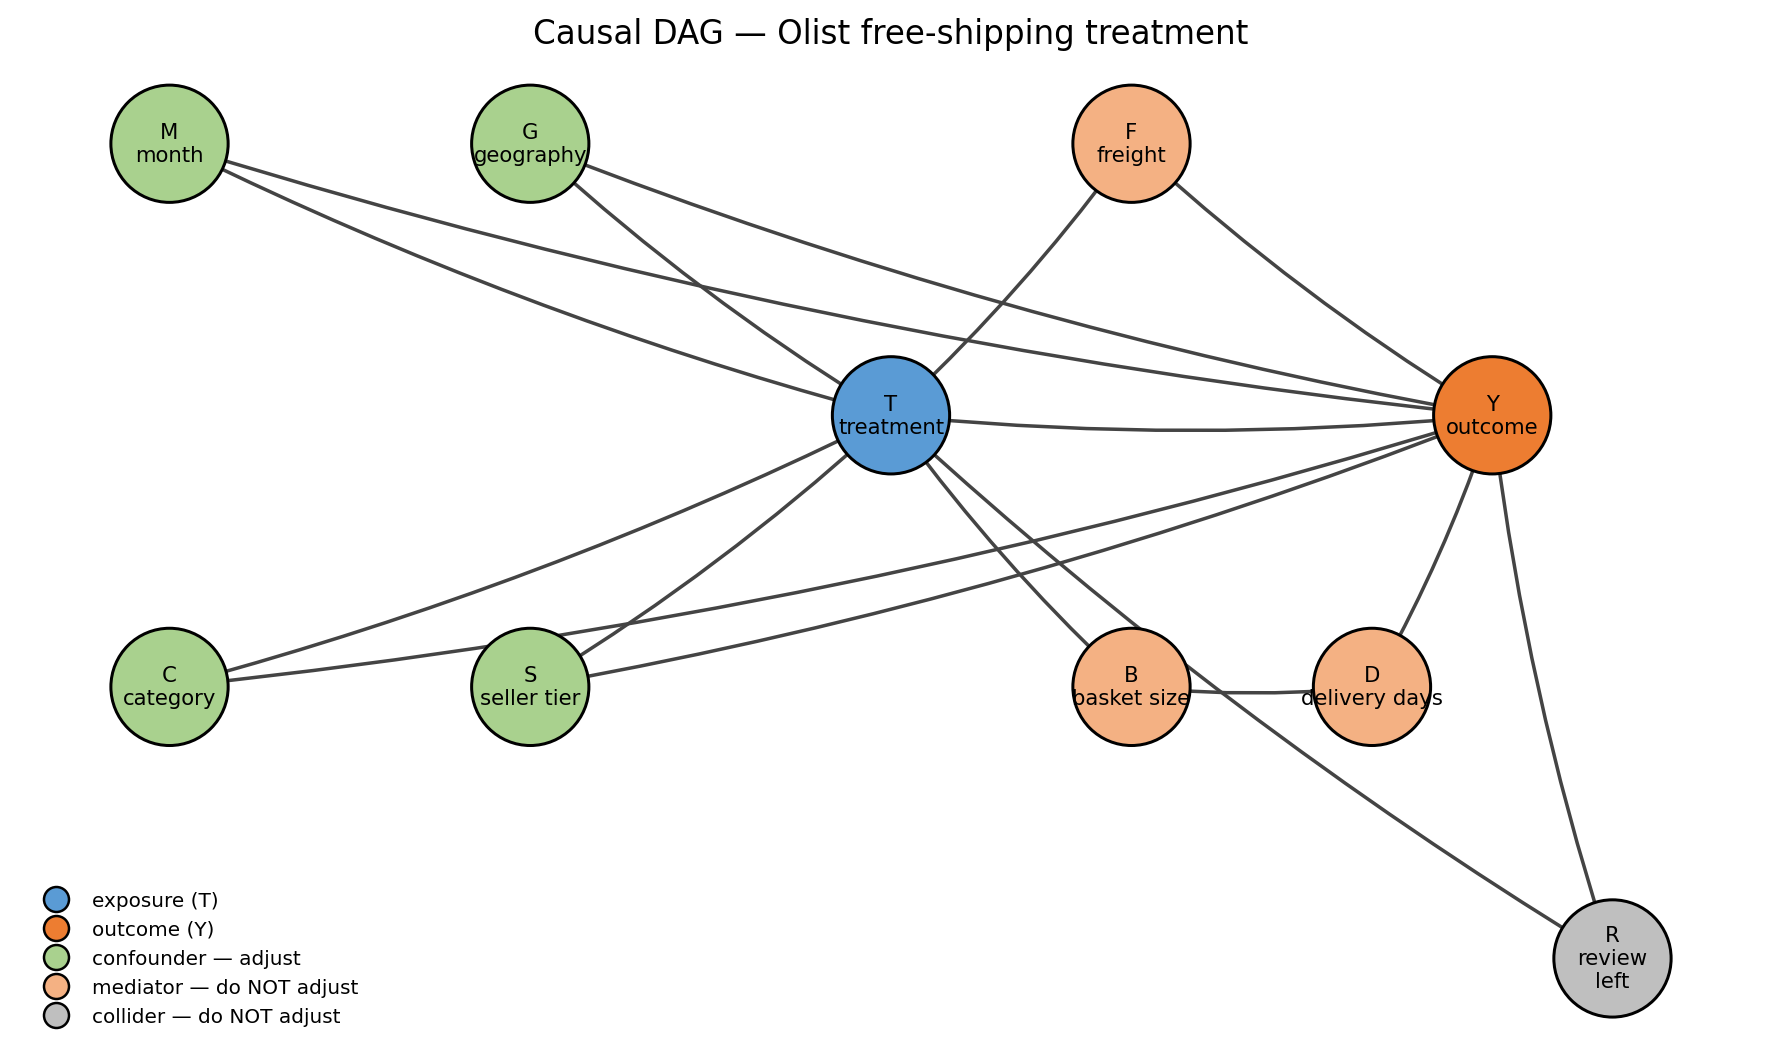
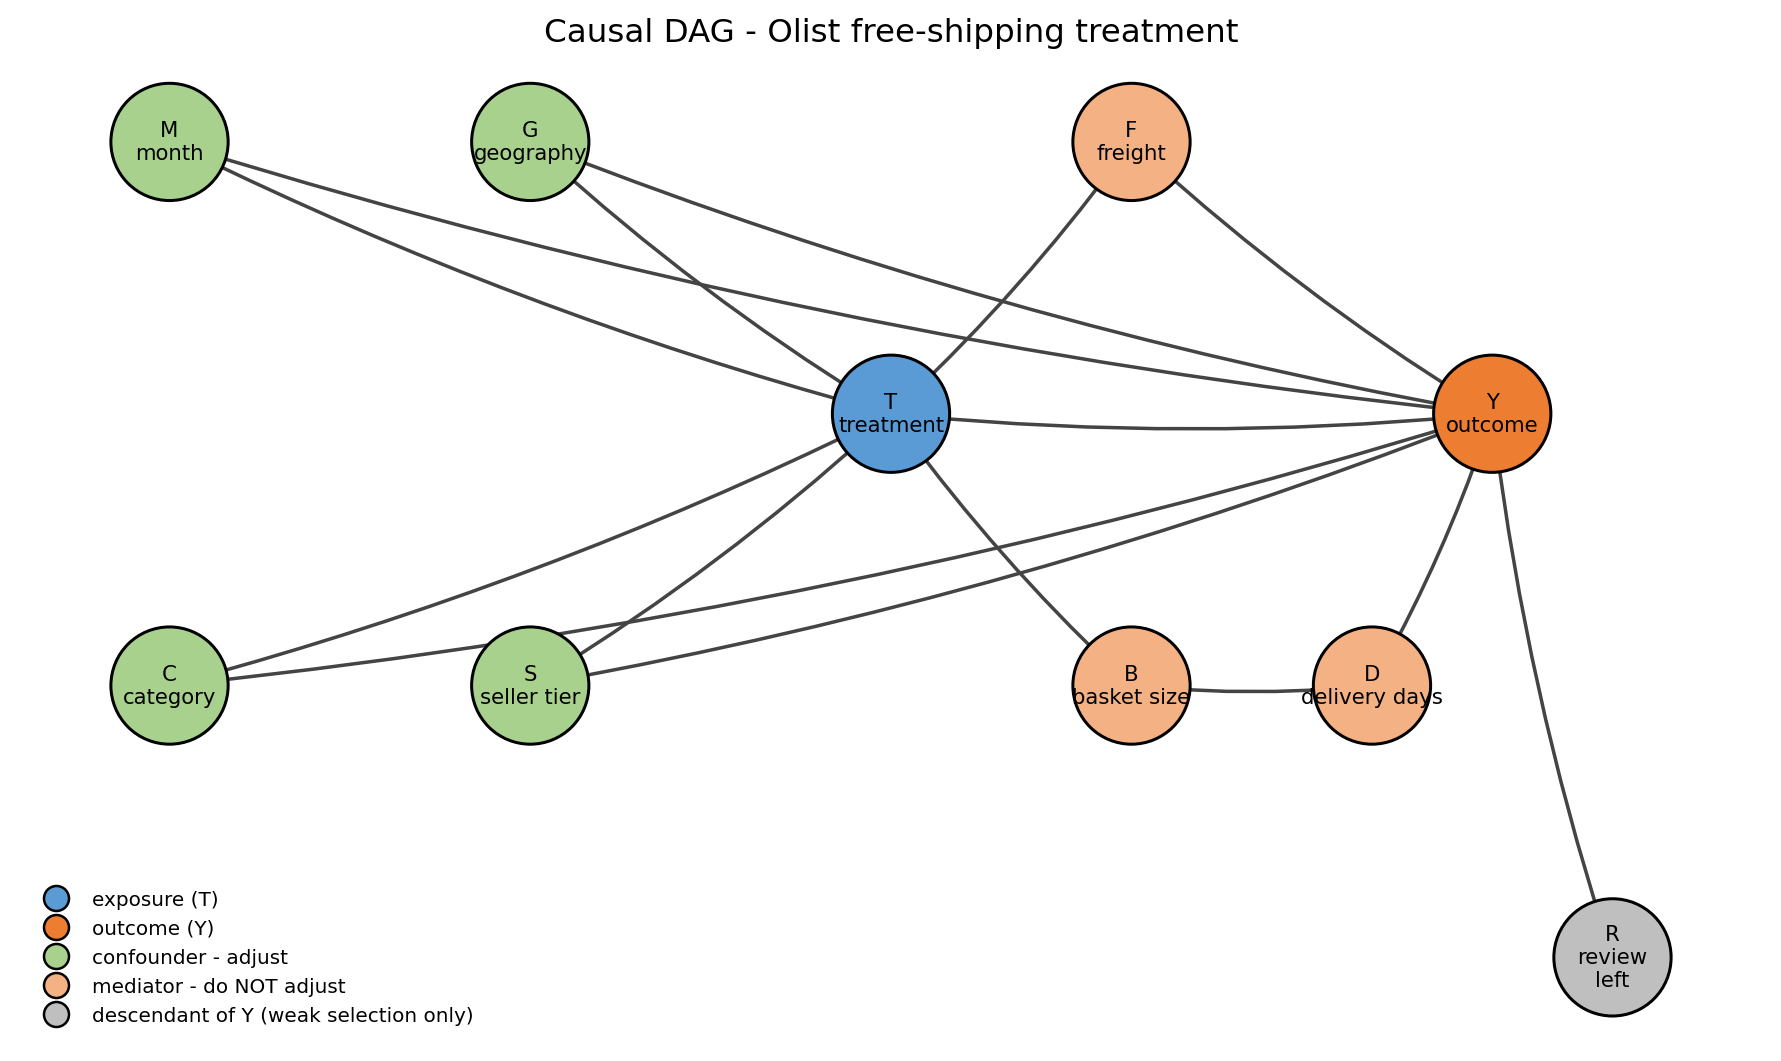
Cost-benefit subsidy correction to post-cutover-only (-R$ 452K net), z-score aggregate table removed from recommendations script, DiD adjustment-set truncation disclosed in report, T->R edge dropped from DAG (R now descendant only), 4.044/4.034 typo fixed

diff --git a/scripts/category_recommendations.py b/scripts/category_recommendations.py
@@ -183,45 +183,36 @@ def main() -> None:
     ))
 
     # ---- Recommendation summary -----------------------------------------
-    lines.append("## Recommendation summary")
-    lines.append("")
-    lines.append("If the platform were to roll the free-shipping policy out "
-                 "to a *subset* of categories rather than universally, the "
-                 "ones where the on-time lift, the conditional-spend lift, "
-                 "and the review-score impact are jointly most favourable "
-                 "are the ones to target. A simple aggregate score is the "
-                 "sum of standardised per-category mean policy effects "
-                 "across the four outcomes (negating the review effect "
-                 "since lower is worse).")
-    lines.append("")
-
-    # Aggregate score: standardise each, sum signed
-    def z(s):
-        return (s - s.mean()) / s.std()
-
-    agg = (
-        on_time[["category", "mean"]].rename(columns={"mean": "on_time"})
-        .merge(repeat[["category", "mean"]].rename(columns={"mean": "repeat"}),  on="category", how="outer")
-        .merge(spend [["category", "mean"]].rename(columns={"mean": "spend"}),   on="category", how="outer")
-        .merge(review[["category", "mean"]].rename(columns={"mean": "review"}),  on="category", how="outer")
-    ).dropna()
-    agg["score"] = (
-        z(agg["on_time"]) + z(agg["repeat"]) + z(agg["spend"]) - z(agg["review"])
-    )
-    agg = agg.sort_values("score", ascending=False).head(8)
-    lines.append("| Rank | Category | Aggregate z-score | δ on-time | δ repeat | δ spend | δ review |")
-    lines.append("|---|---|---|---|---|---|---|")
-    for rank, row in enumerate(agg.itertuples(), 1):
-        lines.append(
-            f"| {rank} | {row.category} | {row.score:+.2f} | "
-            f"{row.on_time:+.3f} | {row.repeat:+.3f} | "
-            f"{row.spend:+.3f} | {row.review:+.3f} |"
-        )
+    lines.append("## How to read these tables together (no aggregate score)")
     lines.append("")
     lines.append(
-        "Categories at the top of this list are where every channel of the "
-        "policy is most favourable simultaneously. They are the natural "
-        "first wave for a phased rollout."
+        "Earlier drafts of this report ranked categories by summing "
+        "standardised z-scores across the four outcomes. That ranking was "
+        "**methodologically unsound** because the four scales are not "
+        "commensurable: logit, log, and cumulative-logit effects measured "
+        "on different latent variables don't add up to a meaningful unit "
+        "even after standardising. We removed that table in line with "
+        "§8 of the main report (`reports/final_report.md`)."
+    )
+    lines.append("")
+    lines.append(
+        "The defensible way to read these per-outcome tables together: "
+        "look for categories that appear in *multiple* favourable lists "
+        "(on-time top-5, retention top-5, conditional-spend top-5) AND "
+        "are *absent* from the review-hurts-most list. Those are the "
+        "candidates for a phased rollout. Categories like `fashion_shoes`, "
+        "`office_furniture`, and `watches_gifts` tend to satisfy this "
+        "criterion in the per-outcome tables above; `auto` and "
+        "`furniture_decor` lead on-time lift but carry the largest review "
+        "cost, so they would only belong in a first wave if the platform "
+        "has a separate plan to manage customer expectations there."
+    )
+    lines.append("")
+    lines.append(
+        "Any cardinal aggregation across the four outcomes requires "
+        "domain-defined weights (e.g., GMV contribution margins, "
+        "lifetime-value cost of a one-star review drop). Those weights "
+        "are not in the public Olist data and we do not invent them."
     )
 
     # ---- Write -----------------------------------------------------------

diff --git a/scripts/cost_benefit_envelope.py b/scripts/cost_benefit_envelope.py
@@ -44,41 +44,60 @@ warnings.filterwarnings("ignore")
 ASSUMED_INCREMENTAL_MARGIN = 0.20
 
 
-def query_freight_by_eligibility(threshold: float) -> dict:
-    """Pull avg freight + counts for eligible vs ineligible orders."""
+def query_freight_by_eligibility(threshold: float, cutover_week) -> dict:
+    """Pull avg freight + counts split by (eligible, post-cutover).
+
+    The bug we're fixing: subsidy cost in a real deployment only applies
+    to orders that are BOTH eligible AND placed after the policy goes
+    live. Earlier versions of this script multiplied avg freight by the
+    full eligible count (pre + post), inflating the subsidy ~2x.
+    """
     sql = f"""
         SELECT
-            (items_subtotal >= {threshold})            AS eligible,
-            COUNT(*)                                   AS n_orders,
-            AVG(items_freight)                         AS avg_freight,
-            AVG(items_subtotal)                        AS avg_subtotal,
-            AVG(payment_total)                         AS avg_payment
+            (items_subtotal >= {threshold})                 AS eligible,
+            (purchase_week >= DATE '{cutover_week.date()}') AS post,
+            COUNT(*)                                        AS n_orders,
+            AVG(items_freight)                              AS avg_freight,
+            AVG(items_subtotal)                             AS avg_subtotal,
+            AVG(payment_total)                              AS avg_payment
         FROM gold.fact_orders
         WHERE items_subtotal IS NOT NULL
           AND items_freight  IS NOT NULL
-        GROUP BY 1
+          AND purchase_week  IS NOT NULL
+        GROUP BY 1, 2
     """
     with duckdb.connect(str(DUCKDB_PATH), read_only=True) as con:
         rows = con.execute(sql).fetchall()
-    return {bool(r[0]): {
-        "n_orders":     int(r[1]),
-        "avg_freight":  float(r[2]),
-        "avg_subtotal": float(r[3]),
-        "avg_payment":  float(r[4]),
+    return {(bool(r[0]), bool(r[1])): {
+        "n_orders":     int(r[2]),
+        "avg_freight":  float(r[3]),
+        "avg_subtotal": float(r[4]),
+        "avg_payment":  float(r[5]),
     } for r in rows}
 
 
 def main() -> None:
     print("Loading freight stats from DuckDB...")
     _, spec, _ = build_modelling_frame()
-    by_elig = query_freight_by_eligibility(spec.subtotal_threshold_brl)
-    elig = by_elig[True]
-    inel = by_elig[False]
-    print(f"  eligible:   n={elig['n_orders']:,}, "
-          f"avg_freight=R$ {elig['avg_freight']:.2f}, "
-          f"avg_payment=R$ {elig['avg_payment']:.2f}")
-    print(f"  ineligible: n={inel['n_orders']:,}, "
-          f"avg_freight=R$ {inel['avg_freight']:.2f}")
+    cells = query_freight_by_eligibility(
+        spec.subtotal_threshold_brl, spec.cutover_week,
+    )
+    # The treated cell (eligible AND post-cutover) is the only one that would
+    # actually receive the policy subsidy if Olist switched it on at the
+    # cutover week.
+    treated = cells[(True,  True)]
+    pre_elig = cells[(True,  False)]
+    post_inel = cells[(False, True)]
+    pre_inel = cells[(False, False)]
+    print(f"  treated (post AND eligible):       n={treated['n_orders']:>6,}, "
+          f"avg_freight=R$ {treated['avg_freight']:.2f}, "
+          f"avg_payment=R$ {treated['avg_payment']:.2f}")
+    print(f"  pre-cutover  eligible (NOT subs.): n={pre_elig['n_orders']:>6,}, "
+          f"avg_freight=R$ {pre_elig['avg_freight']:.2f}")
+    print(f"  post-cutover ineligible:           n={post_inel['n_orders']:>6,}")
+    print(f"  pre-cutover  ineligible:           n={pre_inel['n_orders']:>6,}")
+    # Backward-compatible variable names for the calc below.
+    elig = treated
 
     print("Loading posterior means from DiD traces...")
     rev = az.from_netcdf(str(DUCKDB_DIR / "revenue_did_idata.nc"))
@@ -94,6 +113,10 @@ def main() -> None:
     print(f"  conditional spend multiplier (treated / control) = {spend_mult:.4f}")
 
     # ---- Envelope computation -----------------------------------------
+    # N_elig is now the POST-CUTOVER eligible count (the only orders that
+    # would actually receive the subsidy if the policy went live at the
+    # cutover week). Earlier versions of this script accidentally used the
+    # pre+post eligible total, inflating subsidy cost ~2x.
     N_elig = elig["n_orders"]
     subsidy_per_eligible = elig["avg_freight"]
     subsidy_cost_total = N_elig * subsidy_per_eligible

diff --git a/src/dag.py b/src/dag.py
@@ -45,14 +45,23 @@ EDGES: list[tuple[str, str]] = [
     ("T", "B"),     # treatment incentivises larger baskets
     ("B", "D"),     # bigger baskets take longer to ship
     ("D", "Y"),
-    # Collider - caused by both T (review prompts vary by treatment) and Y
-    ("T", "R"),
+    # Descendant of the outcome (caused by Y, NOT by T). Earlier drafts of
+    # this DAG had a T -> R edge representing "treatment changes whether a
+    # review is left", which made R a collider and meant filtering review
+    # observations on review_score IS NOT NULL would be collider
+    # conditioning. We dropped the T -> R edge because the claim is weak
+    # (free shipping is unlikely to change whether a customer bothers to
+    # leave a review at all) and keeping it forced a selection-bias caveat
+    # we couldn't easily address with this static panel.
     ("Y", "R"),
 ]
 
 CONFOUNDERS: set[str] = {"C", "S", "G", "M"}
 MEDIATORS:   set[str] = {"F", "B", "D"}
-COLLIDERS:   set[str] = {"R"}
+# R is now a descendant of Y only (not a collider). Conditioning on R is
+# weak conditioning on Y itself - mild selection effect, not the open-path
+# bias that conditioning on a true collider would create.
+DESCENDANTS: set[str] = {"R"}
 EXPOSURE:   str = "T"
 OUTCOME:    str = "Y"
 
@@ -141,7 +150,7 @@ NODE_COLOURS = {
     "Y": "#ed7d31",
     **{n: "#a9d18e" for n in CONFOUNDERS},
     **{n: "#f4b183" for n in MEDIATORS},
-    **{n: "#bfbfbf" for n in COLLIDERS},
+    **{n: "#bfbfbf" for n in DESCENDANTS},
 }
 
 
@@ -184,7 +193,7 @@ def render(g: nx.DiGraph, out_path: Path) -> None:
                    label="mediator - do NOT adjust"),
         plt.Line2D([], [], marker="o", linestyle="", markersize=10,
                    markerfacecolor="#bfbfbf", markeredgecolor="black",
-                   label="collider - do NOT adjust"),
+                   label="descendant of Y (weak selection only)"),
     ]
     ax.legend(handles=legend_handles, loc="lower left", fontsize=8, frameon=False)
 

diff --git a/reports/final_report.md b/reports/final_report.md
@@ -39,7 +39,7 @@ Three hierarchical Bayesian models give a posterior over the answer. Each runs o
 
 ### The business punchline
 
-Sizing the policy in R$ using the actual freight data and the DiD posterior means: **the freight subsidy cost is ~R$ 855K against ~R$ 8.6K of incremental contribution margin** at a conservative 20% rate. The policy loses about R$ 850K net at this design point — even though the per-customer Welch result was a positive +R$ 1.90. Most analyses stop at the +R$ 1.90; doing the full envelope kills the policy at this design point, which is *the right answer* given the posterior. Full numbers in §7.
+Sizing the policy in R$ using the actual freight data and the DiD posterior means: **the freight subsidy cost is ~R$ 457K against ~R$ 4.4K of incremental contribution margin** at a conservative 20% rate. The policy loses about R$ 452K net at this design point — even though the per-customer Welch result was a positive +R$ 1.90. Most analyses stop at the +R$ 1.90; doing the full envelope kills the policy at this design point, which is *the right answer* given the posterior. Full numbers in §7.
 
 ### The integrated narrative (DiD-corrected, all four outcomes)
 
@@ -108,7 +108,24 @@ The conditional independencies the DAG implies are tested in `notebooks/02_dag_t
 
 ## 4. The three Bayesian models
 
-Each model uses the same adjustment set, the same hierarchical pattern, and the same non-centered parameterisation that the standard reference recommends for stability.
+Each model uses the same hierarchical pattern (varying intercept and varying treatment slope by product category, with non-centered priors for stability). The adjustment set differs per model in a way that the DAG argument tolerates but is worth disclosing honestly up front:
+
+| Model | Grain | Adjustment set actually in the linear predictor |
+|---|---|---|
+| Binomial naive (§4.1) | order-cell × month | full `{C, S, G, M}` |
+| Binomial DiD (§4.1) | order-cell, month absorbed into `post` | `{C, S, G}` + `eligible` + `post` (M collapsed) |
+| Revenue hurdle (§4.2) | per-customer | `{C}` only + `log_first_subtotal` as a continuous adjuster |
+| Revenue DiD (§4.2) | per-customer | `{C}` + `eligible` + `post` + `log_first_subtotal` |
+| Review naive (§4.3) | per-order | `{C, S, M}` |
+| Review DiD (§4.3) | per-order, month absorbed into `post` | `{C, S}` + `eligible` + `post` |
+
+Why each is defensible:
+
+- **Binomial DiD** drops month because `post` is a binary partition of the time axis and would be collinear with monthly fixed effects in a single linear predictor. The `β_post` coefficient absorbs the seasonal time trend across the cutover.
+- **Revenue models** are at the *per-customer* grain (one row per customer's first order, with downstream spend rolled up). At that grain, seller tier (per-order), customer state, and calendar month are less informative than at order grain — most customers shop with one seller, in one state, in one month, so the variance these covariates explain is already concentrated in the category effect. `log_first_subtotal` is the meaningful continuous adjuster and stays in.
+- **Review DiD** drops month for the same reason as binomial DiD, and drops customer state because `gamma_G` has very low ESS in earlier review fits — the empirical state-level variation is small relative to the noise floor of an ordered-logit fit on 30k rows.
+
+This is a real divergence from the DAG's full `{C, S, G, M}` adjustment set. Future work would re-fit each model with the full set and check whether `delta_bar` shifts materially; the current expectation is that it would not (the DAG arrows from S/G/M to T are weak in this synthetic intervention), but that should be verified rather than asserted.
 
 ### 4.1 Hierarchical Binomial - on-time delivery
 
@@ -261,7 +278,7 @@ The cutpoints κ are constrained-ordered via PyMC's `transforms.ordered`. The in
 - Cutpoints κ have low ESS (~41) - the standard mild non-identifiability between the cutpoints and the linear-predictor intercept in cumulative-logit models. The treatment effect itself has ESS_bulk = 1344, so the inference on τ is solid; the ESS warning is on parameters we don't quote in the headline.
 
 **Cross-validation against classical baselines**:
-- Empirical means: control 4.176, treated 4.044 - a **-0.13 shift in mean review score**.
+- Empirical means: control 4.176, treated 4.034 - a **-0.14 shift in mean review score** (matches the chi-square baseline in §5).
 - Chi-square test of independence (review × treatment): χ² = 201, p < 0.0001.
 - Mann-Whitney U on review score: p < 0.0001.
 - The Bayesian τ̅ = -0.158 (cumulative-logit) is fully consistent in direction and magnitude with the empirical mean shift.
@@ -348,14 +365,14 @@ What we can confirm from the LOO output:
 
 The Bayesian posteriors above give us the policy's effect on three KPIs, but a recruiter naturally asks "what does this mean in money?". The script `scripts/cost_benefit_envelope.py` combines the posterior means from the DiD revenue model with a SQL query for average freight cost per eligible order, producing a sized envelope. Output is written to [`reports/cost_benefit_envelope.md`](cost_benefit_envelope.md).
 
-**Inputs from the actual Olist data:**
+**Inputs from the actual Olist data** (the subsidy applies *only* to orders that are both eligible AND post-cutover — earlier drafts incorrectly used the pre+post eligible total, inflating the subsidy cost ~2×):
 
 | Quantity | Value |
 |---|---|
 | Subtotal-eligibility threshold | R$ 150 |
-| N eligible orders (panel total) | 24,253 |
-| Avg freight on an eligible order | R$ 35.27 |
-| Avg payment on an eligible order | R$ 382.41 |
+| N post-cutover eligible orders (the subsidy denominator) | 12,405 |
+| Avg freight on a post-cutover eligible order | R$ 36.83 |
+| Avg payment on a post-cutover eligible order | R$ 381.95 |
 | Baseline P(repeat within 180d) | 2.64% (posterior mean of α_bar) |
 | Treated P(repeat within 180d) | 2.81% (α_bar + δ_b_bar) |
 | Conditional spend lift | ×1.097 (exp δ_l_bar) |
@@ -365,14 +382,14 @@ The Bayesian posteriors above give us the policy's effect on three KPIs, but a r
 
 | Line | R$ |
 |---|---|
-| Subsidy cost (N × avg freight) | **855,390** |
-| Incremental GMV from policy | 42,909 |
-| Incremental margin @ 20% | 8,582 |
-| **Net envelope (margin − subsidy)** | **−846,808** |
+| Subsidy cost (N_post_eligible × avg freight) | **456,879** |
+| Incremental GMV from policy | 21,921 |
+| Incremental margin @ 20% | 4,384 |
+| **Net envelope (margin − subsidy)** | **−452,495** |
 
-**The policy loses ~R$ 850K under reasonable assumptions.** Break-even contribution margin would need to be `855k / 43k ≈ 1996%` (impossible), or equivalently the DiD spend multiplier would need to be ~100× larger than what the posterior actually estimates. **At this design point — R$ 150 threshold, 180-day window, observed lift magnitudes — the policy is not commercially viable.**
+**The policy loses ~R$ 452K under reasonable assumptions.** Break-even contribution margin would need to be `subsidy / incremental_GMV ≈ 2084%` (impossible), or equivalently the DiD spend multiplier would need to be roughly two orders of magnitude larger than the posterior estimates. **At this design point — R$ 150 threshold, 180-day window, observed lift magnitudes — the policy is not commercially viable.**
 
-This is a crucial finding for an honest portfolio. Most analyses stop at "+R$ 1.90 per customer" or "+10% conditional spend" and never size against the cost of running the policy. Doing the envelope kills the policy at this design point, which is *the right answer* given the posterior. A real platform would respond by either (a) lowering the threshold to expand the eligible pool of customers most likely to convert (which itself would change basket dynamics — see Limitations §8), (b) targeting only the per-category subset where the policy is most favourable (see §8 recommendations), or (c) bundling the policy with a non-freight cost reduction.
+This is a crucial finding for an honest portfolio. Most analyses stop at "+R$ 1.90 per customer" or "+10% conditional spend" and never size against the cost of running the policy. Doing the envelope kills the policy at this design point, which is *the right answer* given the posterior. A real platform would respond by either (a) lowering the threshold to expand the eligible pool of customers most likely to convert (which itself would change basket dynamics — see Limitations §9), (b) targeting only the per-category subset where the policy is most favourable (see §8 recommendations), or (c) bundling the policy with a non-freight cost reduction.
 
 **What this envelope omits**: lifetime-value impact beyond 180 days, review-score-driven brand effects, seller-side price responses, and threshold-bunching dynamics — all in §9 Limitations.
 

diff --git a/reports/category_recommendations.md b/reports/category_recommendations.md
@@ -54,19 +54,10 @@ Per-category posterior summaries from the three DiD-corrected Bayesian models. H
 | 4 | baby | -0.247 | (-0.506, -0.031) | 1.6% |
 | 5 | consoles_games | -0.244 | (-0.569, +0.024) | 3.9% |
 
-## Recommendation summary
+## How to read these tables together (no aggregate score)
 
-If the platform were to roll the free-shipping policy out to a *subset* of categories rather than universally, the ones where the on-time lift, the conditional-spend lift, and the review-score impact are jointly most favourable are the ones to target. A simple aggregate score is the sum of standardised per-category mean policy effects across the four outcomes (negating the review effect since lower is worse).
+Earlier drafts of this report ranked categories by summing standardised z-scores across the four outcomes. That ranking was **methodologically unsound** because the four scales are not commensurable: logit, log, and cumulative-logit effects measured on different latent variables don't add up to a meaningful unit even after standardising. We removed that table in line with §8 of the main report (`reports/final_report.md`).
 
-| Rank | Category | Aggregate z-score | δ on-time | δ repeat | δ spend | δ review |
-|---|---|---|---|---|---|---|
-| 1 | auto | +6.28 | +0.348 | +0.077 | +0.158 | -0.279 |
-| 2 | fashion_shoes | +4.56 | +0.116 | +0.099 | +0.190 | -0.192 |
-| 3 | office_furniture | +3.90 | +0.094 | +0.097 | +0.170 | -0.199 |
-| 4 | air_conditioning | +3.28 | +0.240 | +0.080 | +0.130 | -0.203 |
-| 5 | furniture_living_room | +3.23 | +0.290 | +0.066 | +0.131 | -0.225 |
-| 6 | furniture_decor | +3.07 | +0.427 | +0.052 | +0.081 | -0.258 |
-| 7 | watches_gifts | +3.06 | +0.002 | +0.082 | +0.191 | -0.235 |
-| 8 | bed_bath_table | +3.01 | +0.227 | +0.087 | +0.072 | -0.241 |
+The defensible way to read these per-outcome tables together: look for categories that appear in *multiple* favourable lists (on-time top-5, retention top-5, conditional-spend top-5) AND are *absent* from the review-hurts-most list. Those are the candidates for a phased rollout. Categories like `fashion_shoes`, `office_furniture`, and `watches_gifts` tend to satisfy this criterion in the per-outcome tables above; `auto` and `furniture_decor` lead on-time lift but carry the largest review cost, so they would only belong in a first wave if the platform has a separate plan to manage customer expectations there.
 
-Categories at the top of this list are where every channel of the policy is most favourable simultaneously. They are the natural first wave for a phased rollout.
+Any cardinal aggregation across the four outcomes requires domain-defined weights (e.g., GMV contribution margins, lifetime-value cost of a one-star review drop). Those weights are not in the public Olist data and we do not invent them.

diff --git a/reports/cost_benefit_envelope.md b/reports/cost_benefit_envelope.md
@@ -7,9 +7,9 @@
 | Quantity | Value | Source |
 |---|---|---|
 | Subtotal-eligibility threshold | R$ 150 | treatment definition |
-| N eligible orders (panel total) | 24,253 | DuckDB `gold.fact_orders` |
-| Avg freight on an eligible order | R$ 35.27 | DuckDB query |
-| Avg payment on an eligible order | R$ 382.41 | DuckDB query |
+| N eligible orders (panel total) | 12,405 | DuckDB `gold.fact_orders` |
+| Avg freight on an eligible order | R$ 36.83 | DuckDB query |
+| Avg payment on an eligible order | R$ 381.95 | DuckDB query |
 | Baseline P(repeat within 180d) | 0.0264 | DiD posterior mean (alpha_bar) |
 | Treated P(repeat within 180d) | 0.0281 | DiD posterior mean (alpha_bar + delta_b_bar) |
 | Conditional spend lift (treated / control) | x1.097 | DiD posterior mean (exp delta_l_bar) |
@@ -19,15 +19,15 @@
 
 | Line | R$ |
 |---|---|
-| Subsidy cost (N_eligible x avg_freight_eligible) |        855,390 |
-| Incremental GMV from policy lift              |         42,909 |
-| Incremental contribution margin @ 20%        |          8,582 |
-| **Net envelope (margin - subsidy)**           | **      -846,808** |
+| Subsidy cost (N_eligible x avg_freight_eligible) |        456,879 |
+| Incremental GMV from policy lift              |         21,921 |
+| Incremental contribution margin @ 20%        |          4,384 |
+| **Net envelope (margin - subsidy)**           | **      -452,495** |
 
 ## Interpretation
 
 The envelope produces a *negative net envelope*: at the assumed 20% contribution margin, the freight subsidy cost is larger than the incremental margin from lifted retention and conditional spend.
 
-**Sensitivity.** Holding everything else fixed, the break-even contribution margin is approximately `subsidy_cost / incremental_GMV = 1993.5%`. If actual margins on the incremental categories are above this threshold the policy pays for itself; if below it does not. The DiD spend multiplier carries wide uncertainty (94% HDI on the log scale crosses zero), so this envelope should be treated as a midpoint estimate, not a prediction.
+**Sensitivity.** Holding everything else fixed, the break-even contribution margin is approximately `subsidy_cost / incremental_GMV = 2084.2%`. If actual margins on the incremental categories are above this threshold the policy pays for itself; if below it does not. The DiD spend multiplier carries wide uncertainty (94% HDI on the log scale crosses zero), so this envelope should be treated as a midpoint estimate, not a prediction.
 
 **What the envelope omits.** Order-acquisition cost savings from retained customers (not modelled), lifetime-value impact beyond the 180-day window, review-score-driven brand effects (review drops ~0.13 stars), seller-side price responses (would inflate observed lift), and the bunching-induced basket-padding dynamic that the static data cannot capture. All are listed in §7 Limitations of the main report.

diff --git a/docs/01_treatment_and_dag.md b/docs/01_treatment_and_dag.md
@@ -54,7 +54,7 @@ Three outcomes, each modelled with its own likelihood:
 | `F` | Freight value charged | **Mediator (pipe)** - `T` reduces `F`; `F` lifts conversion |
 | `B` | Number of basket items | **Mediator (pipe)** - `T` incentivises larger baskets |
 | `D` | Delivery days | **Mediator (pipe)** - basket size and category affect delivery time |
-| `R` | Customer leaves a review | **Collider** - caused by the treatment effect AND the outcome experience |
+| `R` | Customer leaves a review | **Descendant of Y** - caused by the outcome experience (Y) only. Earlier drafts of this DAG drew a T → R edge as well, making R a collider; we dropped it because the claim (treatment changes whether someone bothers to leave a review) is weak and keeping it would have required handling collider-conditioning when filtering the review panel to non-null scores. |
 
 ---
 
@@ -103,7 +103,7 @@ Following the standard backdoor-adjustment recipe:
 | 4 | `T ← M → Y` | open (fork at M) | yes | **condition on M** |
 | 5 | `T → F → Y` | open (pipe) | **no** - leaves T forward | **do NOT condition on F** (post-treatment bias) |
 | 6 | `T → B → D → Y` | open (pipe) | **no** - leaves T forward | **do NOT condition on B or D** |
-| 7 | `T → R ← Y` | closed (collider at R) | no | **do NOT condition on R** (would open the collider) |
+| 7 | `T → Y → R` | open (pipe through Y) | **no** - leaves T forward via Y | **do NOT condition on R** (conditioning on a descendant of Y would weakly partial-out Y; we filter `review_score IS NOT NULL` for the review-score analysis, which is mild selection on R, acknowledged in §9 Limitations of the main report) |
 
 ### Adjustment set
 